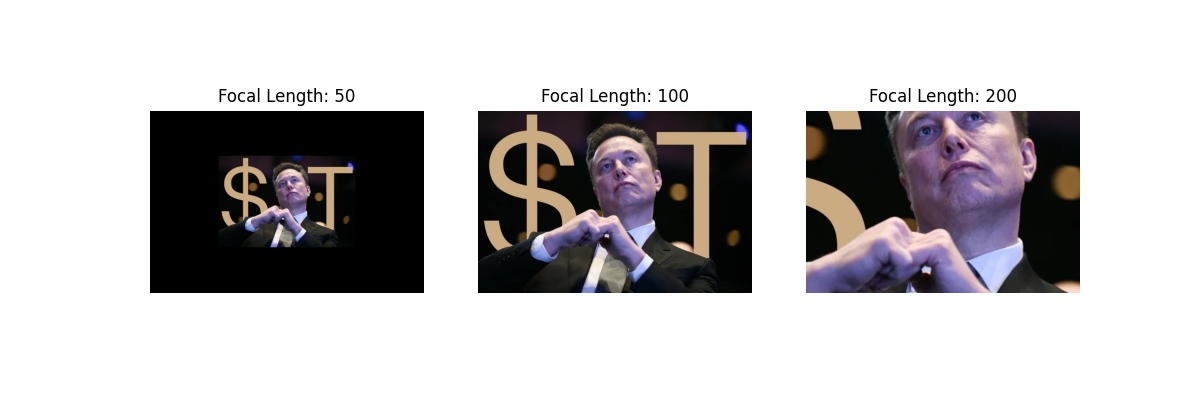
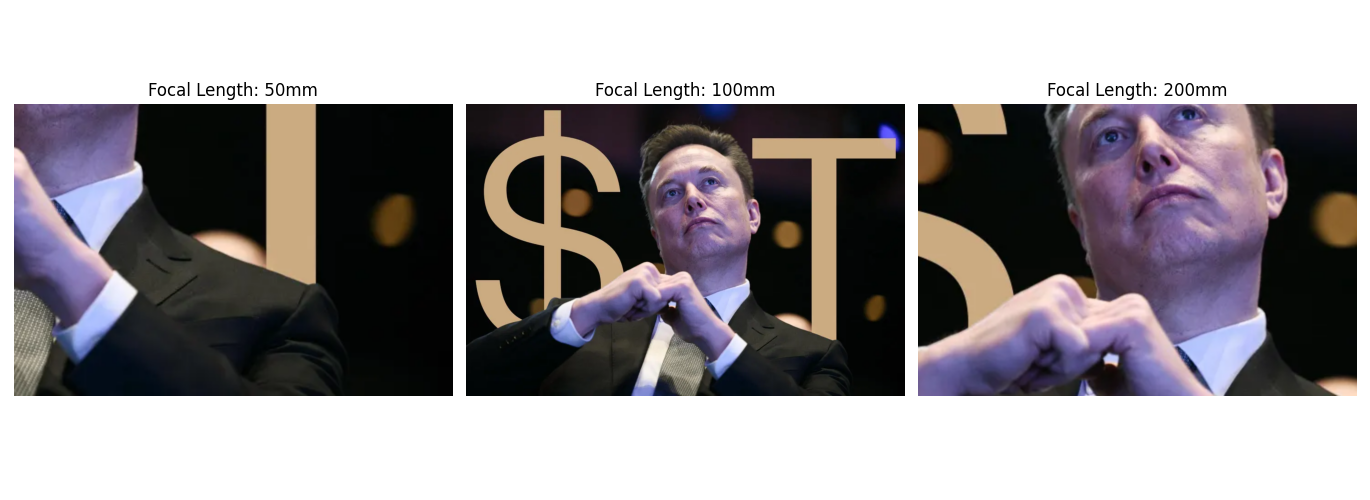
Added camera focal length simulation

diff --git a/image_processing.py b/image_processing.py
@@ -13,6 +13,8 @@ plt.axis("off")
 plt.show()
 
 
+
+# ===== ROTATION =====
 # Define rotation parameters
 (h, w) = image.shape[:2]  # Get image height and width
 center = (w // 2, h // 2)  # Find the center of the image
@@ -31,46 +33,54 @@ plt.title("Rotated Image (45°)")
 plt.axis("off")
 plt.show()
 
-
+# ===== SCALING (FIXED) =====
 # Scale the image by 1.5x
-scaled_image = cv2.resize(image, None, fx=1.5, fy=1.5, interpolation=cv2.INTER_LINEAR)
+scale_factor = 1.5
+new_width = int(w * scale_factor)
+new_height = int(h * scale_factor)
+scaled_image = cv2.resize(image, (new_width, new_height), interpolation=cv2.INTER_LINEAR)
 
-# Display the scaled image
+# Display the scaled image (showing it's actually bigger)
+plt.figure(figsize=(10, 8))
 plt.imshow(cv2.cvtColor(scaled_image, cv2.COLOR_BGR2RGB))
-plt.title("Scaled Image (1.5x)")
+plt.title(f"Scaled Image (1.5x) - New size: {new_width}x{new_height}")
 plt.axis("off")
 plt.show()
 
-
-# Define focal length variations
+# ===== 3D VISION - FOCAL LENGTH SIMULATION (FIXED) =====
+# Simulate different focal lengths (camera zoom effects)
 focal_lengths = [50, 100, 200]
 
-# Display different focal lengths
-plt.figure(figsize=(12, 4))
-for i, f in enumerate(focal_lengths):
-    zoom_factor = f / 100.0  # Normalize focal length to create zoom effect
+plt.figure(figsize=(15, 5))
+for i, focal_length in enumerate(focal_lengths):
+    # Calculate crop factor based on focal length
+    # Lower focal length = wider view (zoom out)
+    # Higher focal length = narrower view (zoom in)
+    crop_factor = 100 / focal_length
     
-    # Create transformation matrix for perspective warp
-    src_points = np.float32([[0, 0], [w, 0], [w, h], [0, h]])
+    # Calculate crop dimensions
+    crop_w = int(w * crop_factor)
+    crop_h = int(h * crop_factor)
     
-    # Calculate destination points based on zoom factor
-    offset_w = w * (1 - zoom_factor) / 2
-    offset_h = h * (1 - zoom_factor) / 2
+    # Calculate crop coordinates (center crop)
+    x_start = (w - crop_w) // 2
+    y_start = (h - crop_h) // 2
     
-    dst_points = np.float32([
-        [offset_w, offset_h],
-        [w - offset_w, offset_h],
-        [w - offset_w, h - offset_h],
-        [offset_w, h - offset_h]
-    ])
+    # Crop the image
+    cropped = image[y_start:y_start+crop_h, x_start:x_start+crop_w]
     
-    # Get perspective transformation matrix
-    perspective_matrix = cv2.getPerspectiveTransform(src_points, dst_points)
-    warped_image = cv2.warpPerspective(image, perspective_matrix, (w, h))
-
+    # Resize back to original dimensions for display
+    focal_image = cv2.resize(cropped, (w, h), interpolation=cv2.INTER_LINEAR)
+    
+    # Display
     plt.subplot(1, 3, i+1)
-    plt.imshow(cv2.cvtColor(warped_image, cv2.COLOR_BGR2RGB))
-    plt.title(f"Focal Length: {f}")
+    plt.imshow(cv2.cvtColor(focal_image, cv2.COLOR_BGR2RGB))
+    plt.title(f"Focal Length: {focal_length}mm")
     plt.axis("off")
 
+plt.tight_layout()
 plt.show()
+
+print("\n✅ All transformations completed successfully!")
+print(f"Original image size: {w}x{h}")
+print(f"Scaled image size: {new_width}x{new_height}")
